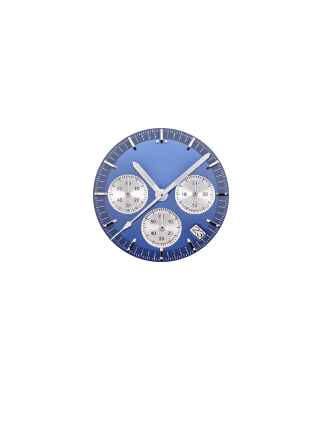
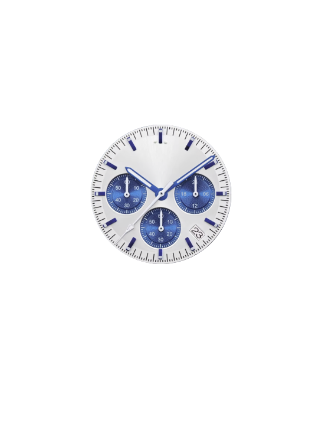
Speedmaster page - day #2 - finished 2

Changed region(s): [[0.2786, 0.2753, 0.7121, 0.6424]]

diff --git a/consSportSpeedmaster.html b/consSportSpeedmaster.html
@@ -161,6 +161,9 @@
                         <button class="option" data-value="9">
                             <img src="watchParts/7_Speedmaster/dial/dial_9.png" alt="Dial 9" />
                         </button>
+                        <button class="option" data-value="10">
+                            <img src="watchParts/7_Speedmaster/dial/dial_10.png" alt="Dial 10" />
+                        </button>
                     </div>
                 </div>
 
